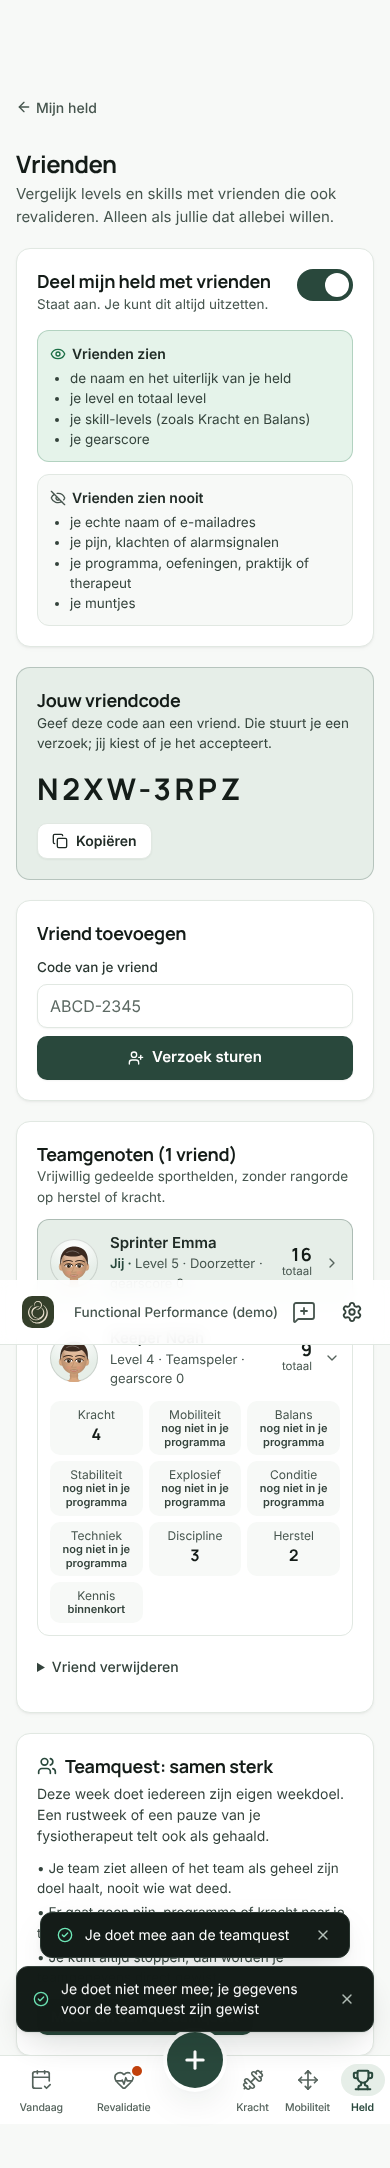
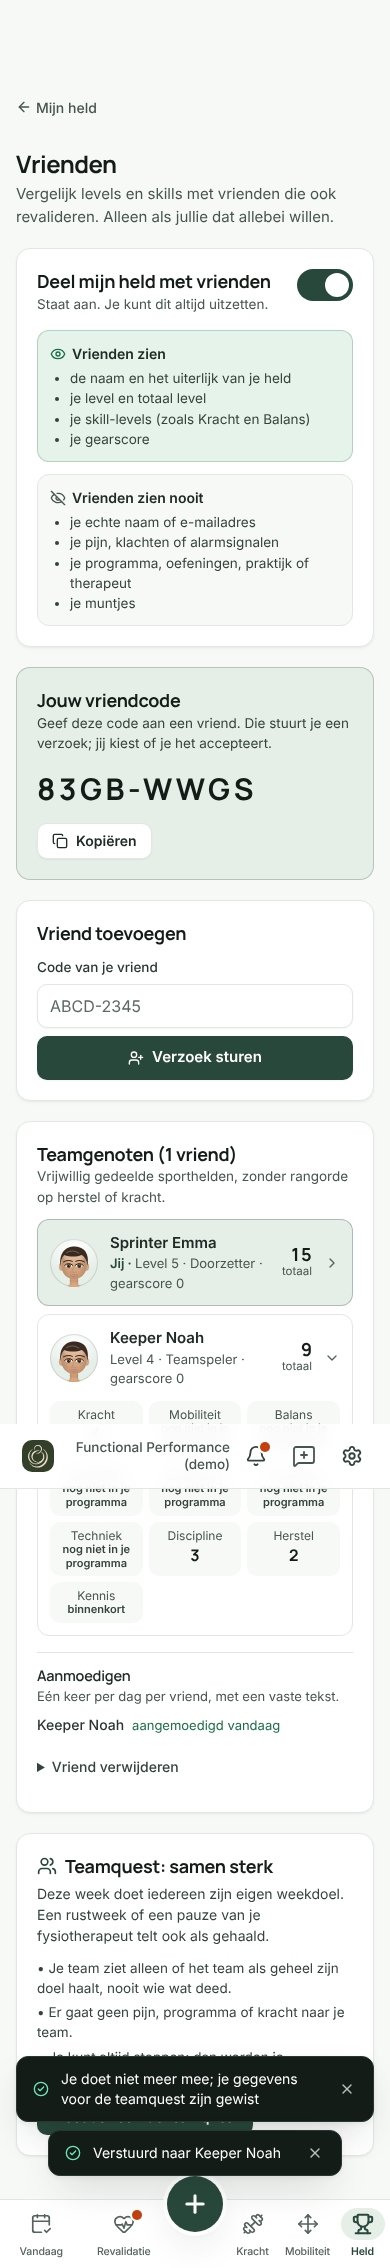
Hero friends: send a fixed cheer once a day (migration 035, security-definer only)
Claude-Session: https://claude.ai/code/session_01LX8STJNNDwUxbGDdeQr5p6

Changed region(s): [[0.0308, 0.0309, 0.9846, 1.0]]

diff --git a/web/src/pages/patient/FriendsPage.tsx b/web/src/pages/patient/FriendsPage.tsx
@@ -1,3 +1,5 @@
+import { fmtRelative } from '@/lib/format';
+import { CHEERS } from '@shared/hero';
 import { useState } from 'react';
 import { Link } from 'react-router-dom';
 import { useQuery, useQueryClient } from '@tanstack/react-query';
@@ -253,6 +255,24 @@ export function FriendsPage() {
             </section>
           )}
 
+          {(d.cheers ?? []).length > 0 && (
+            <section className="rounded-2xl border border-accent/25 bg-accent-soft p-5" aria-labelledby="cheers-title">
+              <h2 id="cheers-title" className="t-section">{t('Aanmoedigingen voor jou', 'Cheers for you')}</h2>
+              <ul className="mt-2 space-y-1.5">
+                {(d.cheers ?? []).slice(0, 8).map((c, i) => {
+                  const ch = CHEERS.find((x) => x.key === c.cheer);
+                  return (
+                    <li key={i} className="flex items-center gap-2 text-[15px] text-ink-900">
+                      <span aria-hidden>{ch?.emoji}</span>
+                      <span className="min-w-0 flex-1"><strong className="font-semibold">{c.heroName}</strong>: {ch ? (locale === 'nl' ? ch.nl : ch.en) : ''}</span>
+                      <span className="shrink-0 text-[12.5px] text-ink-600">{fmtRelative(c.at, locale)}</span>
+                    </li>
+                  );
+                })}
+              </ul>
+            </section>
+          )}
+
           <section className="rounded-2xl border border-line bg-white p-5 shadow-card" aria-labelledby="friends-title">
             <h2 id="friends-title" className="t-section">{t(`Teamgenoten (${friends.length} ${friends.length === 1 ? 'vriend' : 'vrienden'})`, `Companions (${friends.length} ${friends.length === 1 ? 'friend' : 'friends'})`)}</h2>
             <p className="text-[13.5px] text-ink-600">{t('Vrijwillig gedeelde sporthelden, zonder rangorde op herstel of kracht.', 'Voluntarily shared heroes, without recovery or strength ranking.')}</p>
@@ -262,6 +282,32 @@ export function FriendsPage() {
             <ul className="mt-3 space-y-2" aria-label={t('Teamgenoten', 'Companions')}>
               {companions.map((f) => <FriendRow key={f.id} f={f} rank={0} me={f.me} />)}
             </ul>
+            {friends.length > 0 && (
+              <div className="mt-4 border-t border-line pt-3">
+                <h3 className="text-[14.5px] font-semibold text-ink-900">{t('Aanmoedigen', 'Cheer on')}</h3>
+                <p className="text-[13px] text-ink-600">{t('Eén keer per dag per vriend, met een vaste tekst.', 'Once a day per friend, with a fixed text.')}</p>
+                <ul className="mt-2 space-y-3">
+                  {friends.map((f) => {
+                    const done = (d.cheeredToday ?? []).includes(f.id);
+                    return (
+                      <li key={f.id}>
+                        <p className="text-[14px] font-medium text-ink-800">{f.heroName}{done && <span className="ml-2 text-[13px] font-normal text-ok">{t('aangemoedigd vandaag', 'cheered today')}</span>}</p>
+                        {!done && (
+                          <div className="mt-1 flex flex-wrap gap-2" role="group" aria-label={t(`${f.heroName} aanmoedigen`, `Cheer on ${f.heroName}`)}>
+                            {CHEERS.map((c) => (
+                              <button key={c.key} type="button" disabled={busy !== null} onClick={() => run(`ch-${f.id}`, () => api.post(`/patient/hero/friends/${f.id}/cheer`, { cheer: c.key }), t(`Verstuurd naar ${f.heroName}`, `Sent to ${f.heroName}`))}
+                                className="inline-flex min-h-[44px] items-center gap-1.5 rounded-full border border-line bg-white px-3 text-[14px] font-medium text-ink-800 hover:border-accent hover:bg-accent-soft disabled:opacity-60">
+                                <span aria-hidden>{c.emoji}</span>{locale === 'nl' ? c.nl : c.en}
+                              </button>
+                            ))}
+                          </div>
+                        )}
+                      </li>
+                    );
+                  })}
+                </ul>
+              </div>
+            )}
             {friends.length > 0 && (
               <details className="mt-3 text-[14px]">
                 <summary className="min-h-[44px] cursor-pointer py-2 font-medium text-ink-700">{t('Vriend verwijderen', 'Remove a friend')}</summary>

diff --git a/server/test/friends.test.ts b/server/test/friends.test.ts
@@ -137,4 +137,45 @@ describe('hero friends (opt-in)', () => {
       c.release();
     }
   });
+
+  it('cheers: pre-chosen only, between friends, once per friend per day; gone when the friendship ends', async () => {
+    const emma = await login('patientA');
+    const noah = await login('patientB');
+    const noahCode = (await noah.put('/patient/hero/sharing', { enabled: true })).body.sharing.code as string;
+    await emma.put('/patient/hero/sharing', { enabled: true });
+    await emma.post('/patient/hero/friends', { code: noahCode });
+    const pending = (await emma.get('/patient/hero/friends')).body.friends[0];
+    // Not friends yet (pending): no cheers.
+    expect((await emma.post(`/patient/hero/friends/${pending.id}/cheer`, { cheer: 'go' })).status).toBe(404);
+    await noah.post(`/patient/hero/friends/${pending.id}/accept`, {});
+    const f = (await emma.get('/patient/hero/friends')).body.friends[0];
+    expect(f.kind).toBe('friend');
+    // Only the fixed cheers.
+    expect((await emma.post(`/patient/hero/friends/${f.id}/cheer`, { cheer: 'je bent stom' })).status).toBe(400);
+    const sent = await emma.post(`/patient/hero/friends/${f.id}/cheer`, { cheer: 'go' });
+    expect(sent.body.result).toBe('sent');
+    expect(sent.body.cheeredToday).toContain(f.id);
+    expect((await emma.post(`/patient/hero/friends/${f.id}/cheer`, { cheer: 'proud' })).body.result).toBe('limit');
+    const got = (await noah.get('/patient/hero/friends')).body;
+    expect(got.cheers).toEqual([expect.objectContaining({ heroName: 'Emma', cheer: 'go' })]);
+    // Ending the friendship removes the cheers.
+    await emma.del(`/patient/hero/friends/${f.id}`);
+    expect((await noah.get('/patient/hero/friends')).body.cheers).toEqual([]);
+  });
+
+  it('the application role cannot read or write cheers directly, nor cheer for someone else', async () => {
+    const c = await appPool.connect();
+    try {
+      await c.query('BEGIN');
+      await expect(c.query('SELECT * FROM hero_cheers')).rejects.toThrow(/permission denied/);
+      await c.query('ROLLBACK');
+      await c.query('BEGIN');
+      await c.query("SELECT set_config('app.user_id', $1, true)", [s.users.patientA]);
+      expect((await c.query('SELECT * FROM app.hero_cheers($1)', [s.patients.noah])).rowCount).toBe(0);
+      await expect(c.query('SELECT app.hero_cheer_send($1, gen_random_uuid(), $2)', [s.patients.noah, 'go'])).rejects.toThrow(/forbidden/);
+    } finally {
+      await c.query('ROLLBACK');
+      c.release();
+    }
+  });
 });

diff --git a/server/src/routes/hero.ts b/server/src/routes/hero.ts
@@ -15,6 +15,8 @@ import { weeklyAdherence } from '../../../shared/adherence';
 import {
   AREA_KEYS, BADGES, CHECKIN_XP, CHEST_XP, GEAR, GEAR_KEYS, onePerSlot, coinsEarned, gearScore, dayChestCoins, chestStreak, longestDayRun, skillTrophies, SHOWCASE_MAX, WALL_BADGES_MAX, seasons, seasonMonth, seasonOf, SEASON_GOAL, SEASON_XP, GENERAL_AREA, HERO_OPTIONS, METRICS, QUEST_XP, averagePain, friendSkillCard, levelFor, questTimeline,
   questXp, skillOfWeek, skillsForExercise, weeklyQuests, weeklyBoss, BOSS_XP, xpFor, type SkillKey, type WeekData,
+  CHEERS,
+  type CheerKey,
 } from '../../../shared/hero';
 import { loadSkillSnapshot } from '../lib/skillState';
 
@@ -441,8 +443,26 @@ async function friendsView(tx: Tx, patientId: string) {
         since: r.since,
       }))
     : [];
-  return { hasHero: !!me, sharing: { enabled: !!me?.share_with_friends, code: me?.share_with_friends ? (me.friend_code as string) : null }, friends };
+  const cheers = me?.share_with_friends ? (await tx.query('SELECT * FROM app.hero_cheers($1)', [patientId])).rows : [];
+  return {
+    hasHero: !!me,
+    sharing: { enabled: !!me?.share_with_friends, code: me?.share_with_friends ? (me.friend_code as string) : null },
+    friends,
+    // Cheers from friends (last 14 days) and the friends already cheered today.
+    cheers: cheers.filter((r) => r.direction === 'in').map((r) => ({ heroName: r.hero_name as string, cheer: r.cheer as string, at: r.created_at })),
+    cheeredToday: cheers.filter((r) => r.direction === 'out').map((r) => r.friendship_id as string),
+  };
 }
+
+/** Send a pre-chosen cheer to a friend: at most one per friend per day. */
+heroPatient.post('/hero/friends/:id/cheer', async (c) => {
+  const { user, patient } = requirePatient(c);
+  const id = parse(uuidParam, c.req.param('id'));
+  const b = parse(z.object({ cheer: z.enum(CHEERS.map((x) => x.key) as [CheerKey, ...CheerKey[]]) }), await c.req.json());
+  const r = await withUser(user.id, async (tx) => (await tx.query('SELECT app.hero_cheer_send($1, $2, $3) AS r', [patient.id, id, b.cheer])).rows[0].r as string);
+  if (r === 'not_friends') throw notFound();
+  return c.json({ result: r, ...(await withUser(user.id, (tx) => friendsView(tx, patient.id))) });
+});
 
 heroPatient.get('/hero/friends', async (c) => {
   const { user, patient } = requirePatient(c);

diff --git a/e2e/friends.spec.ts b/e2e/friends.spec.ts
@@ -14,7 +14,7 @@ async function sql(q: string, p: unknown[] = []) {
 }
 
 const reset = () =>
-  sql(`DELETE FROM hero_friendships; UPDATE patient_heroes SET share_with_friends = false, friend_code = NULL, shared_stats = NULL, stats_updated_at = NULL, team_opt_in = false, team_week = NULL, team_done = NULL`);
+  sql(`DELETE FROM hero_cheers; DELETE FROM hero_friendships; UPDATE patient_heroes SET share_with_friends = false, friend_code = NULL, shared_stats = NULL, stats_updated_at = NULL, team_opt_in = false, team_week = NULL, team_done = NULL`);
 test.beforeAll(reset);
 test.afterAll(reset);
 
@@ -80,6 +80,16 @@ test('two patients from different practices become friends and join without a re
   await expectAccessible(emma, 'team quest joined');
   await team.getByRole('button', { name: 'Niet meer meedoen' }).click();
   await expect(team.getByRole('button', { name: 'Meedoen aan de teamquest' })).toBeVisible();
+  // Cheer Noah on with a fixed text; once per day.
+  const cheer = emma.getByRole('group', { name: 'Keeper Noah aanmoedigen' });
+  await cheer.getByRole('button', { name: /Zet 'm op!/ }).click();
+  await expect(emma.getByText('aangemoedigd vandaag')).toBeVisible();
+  await expect(emma.getByRole('group', { name: 'Keeper Noah aanmoedigen' })).toHaveCount(0);
+  await expectAccessible(emma, 'friends cheer');
+  await noah.reload();
+  const got = noah.getByRole('region', { name: 'Aanmoedigingen voor jou' });
+  await expect(got.getByText(/Sprinter Emma/)).toBeVisible();
+  await expect(got.getByText(/Zet 'm op!/)).toBeVisible();
   await emma.screenshot({ path: 'screenshots/hero/friends.png', fullPage: true });
 
   // The character sheet links to the friends page with the count.

diff --git a/web/src/components/app/WhatsNew.tsx b/web/src/components/app/WhatsNew.tsx
@@ -21,6 +21,7 @@ const STAFF: Item[] = [
   { nl: 'Reageren op een training bij "Markeer als gezien"; de patiënt krijgt je reactie.', en: 'Reply to a workout with "Mark as seen"; the patient gets your reply.' },
 ];
 const PATIENT: Item[] = [
+  { nl: 'Moedig je vrienden aan met een vaste tekst, zoals "Zet \'m op!", één keer per dag.', en: 'Cheer on your friends with a fixed text, like "Go for it!", once a day.', to: '/p/held/vrienden' },
   { clinical: true, nl: 'Geeft je fysiotherapeut een volgende fase vrij, dan zie je "Hoofdstuk voltooid!" met je nieuwe doel.', en: 'When your physiotherapist releases a next phase, you see "Chapter completed!" with your new goal.' },
   { clinical: true, nl: 'In de uitleg over je klacht staat nu ook bij elke oefening van je programma waarom die helpt.', en: 'The explanation of your complaint now also says why each exercise in your programme helps.' },
   { nl: 'Loopt je pijn na het trainen drie keer op rij op, dan zie je dat met een tip om het rustiger aan te doen.', en: 'If your pain after training goes up three times in a row, you see it with a tip to take it easier.' },
@@ -30,7 +31,7 @@ const PATIENT: Item[] = [
   { nl: 'Op Voortgang zie je hoe zwaar en pijnlijk je trainingen waren, in gewone taal.', en: 'Progress shows how hard and painful your workouts were, in plain words.', to: '/p/voortgang' },
   { nl: 'Nieuwe quizvragen over welke spier het werk overneemt als een andere zwak is.', en: 'New quiz questions on which muscle takes over when another is weak.' },
 ];
-const VERSION = '2026-11-06f';
+const VERSION = '2026-11-06g';
 const KEY = 'fp.whatsnew.v1';
 
 function seen() {

diff --git a/shared/hero.ts b/shared/hero.ts
@@ -1185,3 +1185,12 @@ export function heroNickname(firstName: string | null | undefined, frame: string
   const list = NICK_ADJ[pick[0].toLowerCase()];
   return `${list[Math.floor(i / names.length) % list.length]} ${pick}`;
 }
+
+/** Pre-chosen cheers between hero friends (no free text: nothing to moderate, no health data). */
+export const CHEERS = [
+  { key: 'go', nl: "Zet 'm op!", en: 'Go for it!', emoji: '💪' },
+  { key: 'strong', nl: 'Sterk bezig!', en: 'Looking strong!', emoji: '🔥' },
+  { key: 'proud', nl: 'Trots op je!', en: 'Proud of you!', emoji: '🏅' },
+  { key: 'keep', nl: 'Volhouden!', en: 'Keep it up!', emoji: '⭐' },
+] as const;
+export type CheerKey = (typeof CHEERS)[number]['key'];

diff --git a/server/src/routes/patientModules.ts b/server/src/routes/patientModules.ts
@@ -272,6 +272,7 @@ patientModules.get('/export', async (c) => {
         dayChests: await q('SELECT day, coins, opened_at FROM hero_daily_chests WHERE patient_id = $1 ORDER BY day'),
       },
       heroFriends: (await q('SELECT kind, hero_name, since FROM app.hero_friends($1)')).map((f) => ({ kind: f.kind, heroName: f.hero_name, since: f.since })),
+      heroCheers: (await q('SELECT direction, hero_name, cheer, created_at FROM app.hero_cheers($1)')).map((c) => ({ direction: c.direction, from: c.hero_name, cheer: c.cheer, at: c.created_at })),
     };
     await audit(tx, user.id, patient.practiceId, 'export_self', 'patient', patient.id);
     return out;

diff --git a/web/src/lib/types.ts b/web/src/lib/types.ts
@@ -268,4 +268,4 @@ export type HeroFriend = {
   statsUpdatedAt: string | null;
   since: string;
 };
-export type FriendsState = { hasHero: boolean; sharing: { enabled: boolean; code: string | null }; friends: HeroFriend[] };
+export type FriendsState = { hasHero: boolean; sharing: { enabled: boolean; code: string | null }; friends: HeroFriend[]; cheers?: { heroName: string; cheer: string; at: string }[]; cheeredToday?: string[] };

diff --git a/docs/ROADMAP.md b/docs/ROADMAP.md
@@ -19,7 +19,7 @@ Eerder genoemd en ook nog open:
 
 Vriendenlijsten zijn gebouwd (opt-in, vriendcode + accepteren, ranglijst op totaal level, skills per vriend; geen pijn- of programmagegevens). Ideeën om hierop voort te bouwen:
 - **Duo-quest**: twee vrienden doen samen een weekquest (bijv. allebei 3 trainingen) voor een gedeelde kist.
-- **Aanmoedigen**: een vooraf gekozen duim/bericht ("Zet 'm op!") sturen; geen vrije tekst, dus geen moderatie nodig.
+- ✅ **Aanmoedigen** (gebouwd, nov 2026): een vooraf gekozen duim/bericht ("Zet 'm op!") sturen; geen vrije tekst, dus geen moderatie nodig.
 - **Seizoenen**: maandelijkse uitdaging met eigen uitrusting die je alleen die maand kunt verdienen.
 - **Praktijk-teams**: praktijken die meedoen vormen een team; ranglijst op volle weken, anoniem en opt-in.
 - **Wearables / Apple Health / Google Fit**: stappen en hartslag als extra XP voor Conditie (vraagt aparte toestemming en verwerkersafspraak).

diff --git a/docs/MASTERPLAN.md b/docs/MASTERPLAN.md
@@ -178,6 +178,11 @@ Status: `[x]` klaar en live · `[ ]` nog te doen.
     en een knop naar die fase. Het bericht blijft onder Berichten. Alleen de therapeut geeft vrij.
     De medaille "Fase voltooid" telt nu ook als de therapeut de volgende fase vrijgeeft zonder de
     vorige eerst op "afgerond" te zetten (eerder kwam die medaille dan nooit).
+65. [x] **Vrienden aanmoedigen** (roadmap, ecosysteem). Vrienden kunnen elkaar één keer per dag een
+    vaste aanmoediging sturen ("Zet 'm op!", "Sterk bezig!", "Trots op je!", "Volhouden!"); geen
+    vrije tekst, dus niets te modereren en geen gezondheidsgegevens. Migratie 035 (alleen een nieuwe
+    tabel); net als de vriendschappen alleen via beveiligde databasefuncties, getest. Weg zodra de
+    vriendschap of het delen stopt; staat in de gegevensexport.
 
 ## Vraagt jouw beslissing (Claude wacht hierop)
 - Render Starter (betaald) en een vaste schijf voor video's (`STORAGE_DIR`).
